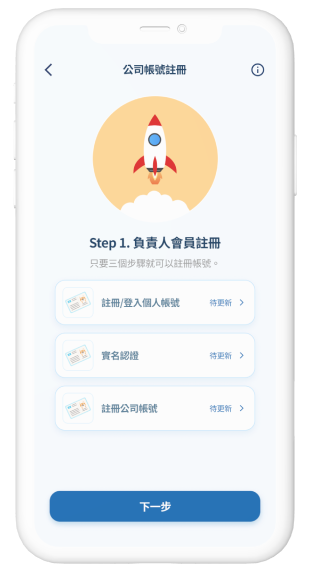
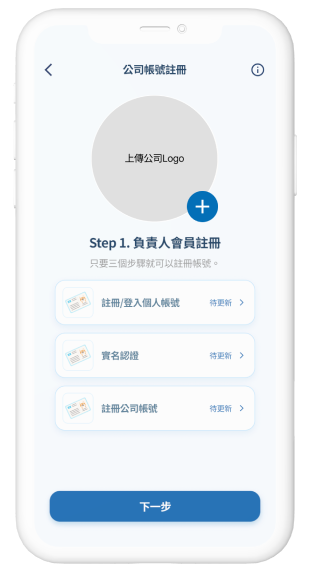
feature: 更新圖片,修正用詞,串接api

Changed region(s): [[0.2913, 0.1486, 0.7282, 0.3864]]

diff --git a/resources/js/frontdesk/pages/BusinessLoan/smeg.vue b/resources/js/frontdesk/pages/BusinessLoan/smeg.vue
@@ -230,7 +230,7 @@
       <div class="block-content">
         <form
           ref="contactForm"
-          @submit.prevent
+          @submit.prevent="doContact"
           class="row no-gutters justify-content-center"
         >
           <div class="col-md col-12">
@@ -269,7 +269,6 @@
                 </label>
               </div>
             </div>
-            、
             <div class="row no-gutters mb-3">
               <div class="form-item-text">*公司名稱：</div>
               <input
@@ -308,15 +307,15 @@
               <textarea
                 type="text"
                 name="reason"
-                style="min-height: 15vh"
+                style="min-height: 10vh"
                 class="form-item-input col"
-                maxlength="100"
+                maxlength="40"
                 required
               ></textarea>
             </div>
             <div class="row no-gutters">
               <div class="form-item-text d-md-block d-none"></div>
-              <button class="btn btn-block btn-form-submit col">
+              <button class="btn btn-block btn-form-submit col" type="submit">
                 立即諮詢
               </button>
             </div>
@@ -331,13 +330,13 @@
       </div>
     </section>
     <section class="question">
-      <h1 class="h1">申請普匯信保專案FAQ</h1>
+      <h1 class="h1">申請普匯中小企業融資專案FAQ</h1>
       <h2 class="h2">
         <div>您是否也有其他申請人常遇到的問題？</div>
         <div>您想知道的，這裡通通有！</div>
       </h2>
       <div class="question-rows">
-        <faq-row title="• 普匯信保融資專案貸款的申請資格？" bg-text="ISSUE 01">
+        <faq-row title="• 普匯中小企業融資專案貸款的申請資格？" bg-text="ISSUE 01">
           <div class="faq-content">
             <div>1. 具有合法公司登記或商業登記</div>
             <div>2. 非金融及保險業、宗教職業及類似組織、特殊娛樂業</div>
@@ -347,7 +346,7 @@
           </div>
         </faq-row>
         <faq-row
-          title="• 普匯信保融資專案貸款額度與借款期間？"
+          title="• 普匯中小企業融資專案貸款額度與借款期間？"
           bg-text="ISSUE 02"
         >
           <div class="faq-content">
@@ -372,7 +371,7 @@
         >
           <div class="faq-content">
             <div>
-              普匯信保專案貸款，全線上無人化系統審核，所有申請流程均透過一支手機完成
+              普匯中小企業融資專案貸款，全線上無人化系統審核，所有申請流程均透過一支手機完成
             </div>
             <div>最快不到2個工作日，即可核准</div>
             <div>銀行端簽約對保並撥款，資料齊備且送達最快3個工作日撥款</div>
@@ -395,6 +394,7 @@ import faqRow from '@/component/faqRow';
 import stepGroup from '@/component/index/stepGroup';
 import smegRequireData from '@/component/smegRequireData';
 import smegSuit from '@/component/smegSuit';
+import Axios from 'axios'
 
 export default {
   components: {
@@ -413,7 +413,7 @@ export default {
         {
           img: require('@/asset/images/bussinessLoan/smeg-feature-step-1.png'),
           title: '步驟一',
-          info: '<div>申請「信保專案融資」</div><div>完成法人註冊、負責人實名認證</div>'
+          info: '<div>申請「中小企業融資專案」</div><div>完成法人註冊、負責人實名認證</div>'
         },
         {
           img: require('@/asset/images/bussinessLoan/smeg-feature-step-2.png'),
@@ -431,6 +431,33 @@ export default {
           info: '<div>等待系統審核並媒合資金方(銀行)</div><div>銀行最終核准後、簽約對保、立即撥款</div>'
         }
       ]
+    }
+  },
+  methods: {
+    doContact() {
+      const data = new FormData(this.$refs.contactForm)
+      Axios({
+        url: '/api/v1/business-loan/contact',
+        method: 'POST',
+        data,
+        headers: {
+          'Content-Type': 'application/x-www-form-urlencoded',
+          'Accept': 'application/json',
+        }
+      }).then(({ data }) => {
+        if (data.success) {
+          this.$refs.contactForm.reset()
+          alert(data.msg)
+        }
+      }).catch(({ response }) => {
+        const d = response.data.data
+        let errorMsg = ''
+        for (const item in d) {
+          errorMsg += d[item].toString() + '\n'
+
+        }
+        alert(errorMsg)
+      })
     }
   },
 }
@@ -494,14 +521,12 @@ export default {
   }
 
   input:checked + .work-input-outside .work-input-inside {
-    -webkit-animation: radio-select 0.1s linear;
     animation: radio-select 0.1s linear;
-    -webkit-transform: scale(1, 1);
     transform: scale(1, 1);
   }
   .no-transforms input:checked + .work-input-outside .work-input-inside {
-    width: 10px;
-    height: 10px;
+    width: 9px;
+    height: 9px;
   }
 }
 @media screen and (max-width: 767px) {
@@ -645,7 +670,7 @@ $color__background--primary: #f3f9fc;
   height: 800px;
   position: relative;
   .block-content {
-    background: url('~images/bussinessLoan/smeg-bannner-bg.png');
+    background: url('~images/bussinessLoan/smeg-banner-bg.png');
     background-position: center;
     height: 100%;
     display: flex;
@@ -1137,7 +1162,7 @@ $color__background--primary: #f3f9fc;
     font-size: 14px;
   }
   .banner {
-    background: url('~images/bussinessLoan/smeg-bannner-bg-phone.png');
+    background: url('~images/bussinessLoan/smeg-banner-bg-phone.png');
     background-repeat: no-repeat;
     background-position: center center;
     background-size: cover;

diff --git a/resources/js/frontdesk/pages/alesis-index.vue b/resources/js/frontdesk/pages/alesis-index.vue
@@ -282,9 +282,9 @@
                 </div>
               </div>
             </div>
-            <div class="product-item">
+            <router-link to="/business-loan/smeg" class="product-item">
               <div class="card">
-                <div class="card-title">信保專案(銀行合作)</div>
+                <div class="card-title">中小企業融資(信保)</div>
                 <div class="card-sub">銀行放款</div>
                 <div class="card-content">
                   <div class="card-subtitle">
@@ -295,7 +295,7 @@
                   </div>
                 </div>
               </div>
-            </div>
+            </router-link>
             <div class="product-item">
               <div class="card">
                 <div class="card-title">中小企業信貸</div>
@@ -412,18 +412,18 @@
                 </div>
               </div>
             </div>
-            <div class="product-item">
+            <router-link to="/business-loan/smeg" class="product-item">
               <div class="card">
                 <div class="card-image">
                   <img src="@/asset/images/index/bank1.png" class="p7" />
                 </div>
-                <div class="card-title">信保專案</div>
+                <div class="card-title">中小企業融資(信保)</div>
                 <div class="card-sub">銀行放款</div>
                 <div class="card-subtitle">
                   普匯銀行攜手，信保保證 銀行貸給你，最高額度600萬
                 </div>
               </div>
-            </div>
+            </router-link>
             <div class="product-item">
               <div class="card">
                 <div class="card-image">

diff --git a/resources/views/index.blade.php b/resources/views/index.blade.php
@@ -169,12 +169,15 @@
                                             <div class="function-list-items">
                                                 <div class="link-title">企業融資</div>
                                                 <div class="link-item">
-                                                    <a href="/business-loan/sme" class="link-text">企業主速貸</a>
-                                                </div>
-                                                <div class="link-item">
                                                     <a href="/business-loan/smeg" class="link-text">
                                                         <div>信保專案(銀行合作)</div>
                                                     </a>
+                                                </div>
+                                                <div class="link-text">
+                                                    <div class="link-text">
+                                                        <div>企業主速貸</div>
+                                                        <div class="link-coming-soon">(coming soon)</div>
+                                                    </div>
                                                 </div>
                                                 <div class="link-item">
                                                     <div class="link-text">
@@ -359,8 +362,8 @@
                             </div>
                             <a href="/business-loan">企業融資</a>
                         </div>
-                        <a href="/business-loan/sme" class="item">微企e秒貸</a>
-                        <div class="item -disabled">信保專案融資 (coming soon)</div>
+                        <a href="/business-loan/smeg" class="item">中小企業融資(信保)</a>
+                        <div class="item -disabled">企業主速貸 (coming soon)</div>
                         <div class="item -disabled">一般企業融資 (coming soon)</div>
                     </div>
                 </div>
@@ -486,9 +489,9 @@
                         <div class="item">
                             <div class="header">企業融資</div>
                             <div class="list">
-                                <a href="/business-loan">企業主速貸</a>
-                                <div class="text-white">信保專案(銀行)</div>
-                                <div class="text-white">企業貸款</div>
+                                <a href="/business-loan/smeg" class="text-white">中小企業融資(信保)</a>
+                                <div class="text-white">企業主速貸</a>
+                                <div class="text-white">中小企業信貸</div>
                             </div>
                         </div>
                         <div class="item">
